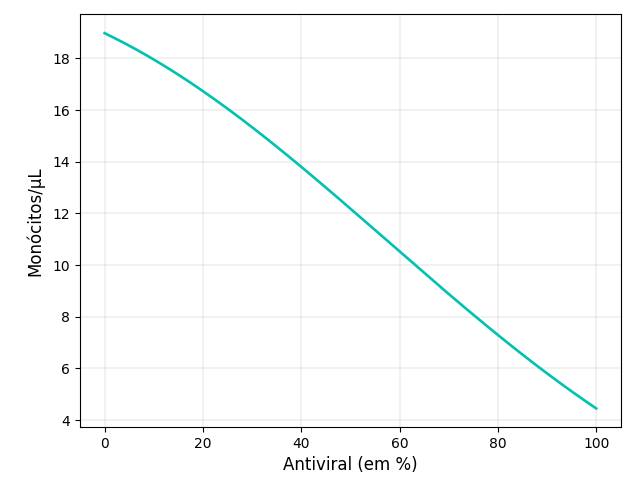
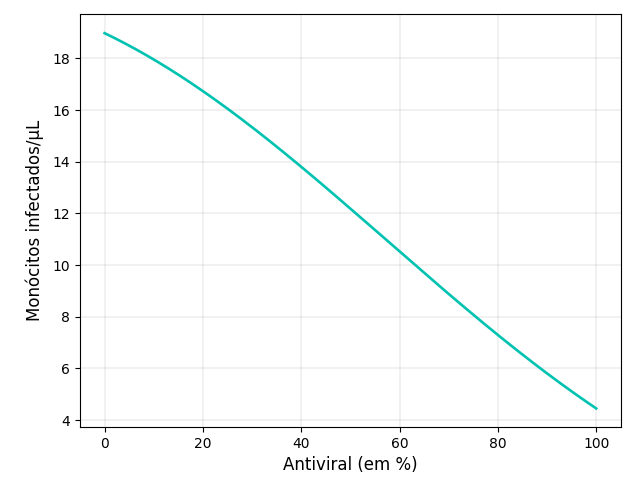
Add detailed comments to main.py for better code understanding

Changed region(s): [[0.0312, 0.25, 0.0625, 0.6875]]

diff --git a/main.py b/main.py
@@ -24,66 +24,68 @@ wks_d = 0.03 * wks_IFN                               #estímulo de produção de
 wks_beta1 = beta + wks_eta * nu / delta
 wks_c1 = wks_c + wks_d * wks_eta / delta
 
-remediocount = [i * 0.001 for i in range(1001)]
-
 h = 0.01                                             #parâmetro de precisão para método numérico de Runge-Kutta
 h1 = h/2                                             #parâmetro intermediário de precisão para método numérico de Runge-Kutta
 t = np.arange(0, 10+h, h)                            #vetor de tempo, até 10 dias
 time = len(t)
-pregnancy = len(remediocount)
 kutta = 4
 
-s = np.zeros((pregnancy,time,kutta))
-v = np.zeros((pregnancy,time,kutta))
-i = np.zeros((pregnancy,time,kutta))
-z = np.zeros((pregnancy,time,kutta))
+remediocount = [i * 0.001 for i in range(1001)]
+num_levels = len(remediocount)
 
-ds = np.zeros((pregnancy,time - 1,kutta))
-dv = np.zeros((pregnancy,time - 1,kutta))
-di = np.zeros((pregnancy,time - 1,kutta))
-dz = np.zeros((pregnancy,time - 1,kutta))
+s = np.zeros((num_levels,time,kutta))       # Array to store susceptible monocytes at each time step and Runge-Kutta stage
+v = np.zeros((num_levels,time,kutta))       # Array to store viral particles at each time step and Runge-Kutta stage
+i = np.zeros((num_levels,time,kutta))       # Array to store infected monocytes at each time step and Runge-Kutta stage
+z = np.zeros((num_levels,time,kutta))       # Array to store T lymphocytes at each time step and Runge-Kutta stage
 
-incremento_s = np.zeros((pregnancy,time))
-incremento_i = np.zeros((pregnancy,time))
-incremento_v = np.zeros((pregnancy,time))
-incremento_z = np.zeros((pregnancy,time))
+ds = np.zeros((num_levels,time - 1,kutta))  # Array to store rate of change for susceptible monocytes
+dv = np.zeros((num_levels,time - 1,kutta))  # Array to store rate of change for viral particles
+di = np.zeros((num_levels,time - 1,kutta))  # Array to store rate of change for infected monocytes
+dz = np.zeros((num_levels,time - 1,kutta))  # Array to store rate of change for T lymphocytes
+
+incremento_s = np.zeros((num_levels,time))  # Array to store increments for susceptible monocytes
+incremento_i = np.zeros((num_levels,time))  # Array to store increments for infected monocytes
+incremento_v = np.zeros((num_levels,time))  # Array to store increments for viral particles
+incremento_z = np.zeros((num_levels,time))  # Array to store increments for T lymphocytes
 
 ###############################
 
-s[:,0,0] = 250 
-i[:,0,0] = 10
-v[:,0,0] = 165
-z[:,0,0] = 2000 
+# Initial values for the populations
+s[:,0,0] = 250        # Susceptible monocytes per microliter
+i[:,0,0] = 10         # Infected monocytes per microliter
+v[:,0,0] = 165        # Viral particles per microliter
+z[:,0,0] = 2000       # T lymphocytes per microliter
 
-day = 3#1/1.33/2/3/4/5
+for w in range(num_levels):            # Loop through each remediocount value
+    for n in range(time - 1):          # Loop through each time step (except the last one)
+        for r in range(kutta):         # Loop through the Runge-Kutta stages
 
-for w in range(len(remediocount)):
-    for n in range(time - 1):
-        for r in range(kutta):
-            ds[w,n,r] = wks_mu[0] - alpha * s[w,n,r] - a[2] * s[w,n,r] * v[w,n,r]
-            di[w,n,r] = a[2] * s[w,n,r] * v[w,n,r] - beta * i[w,n,r] - nu * i[w,n,r] * z[w,n,r]
-            dv[w,n,r] = (1 - remediocount[w]) * k * i[w,n,r] - gamma * v[w,n,r] - a[2] * s[w,n,r] * v[w,n,r]
-            dz[w,n,r] = wks_eta[0] + wks_c[0] * i[w,n,r] + wks_d[0] * i[w,n,r] * z[w,n,r] - delta * z[w,n,r]
+            ds[w,n,r] = wks_mu[0] - alpha * s[w,n,r] - a[2] * s[w,n,r] * v[w,n,r]                             # Rate of change for susceptible monocytes
+            di[w,n,r] = a[2] * s[w,n,r] * v[w,n,r] - beta * i[w,n,r] - nu * i[w,n,r] * z[w,n,r]               # Rate of change for infected monocytes
+            dv[w,n,r] = (1 - remediocount[w]) * k * i[w,n,r] - gamma * v[w,n,r] - a[2] * s[w,n,r] * v[w,n,r]  # Rate of change for viral particles
+            dz[w,n,r] = wks_eta[0] + wks_c[0] * i[w,n,r] + wks_d[0] * i[w,n,r] * z[w,n,r] - delta * z[w,n,r]  # Rate of change for T lymphocytes
 
-            if r < (kutta - 1):
+            if r < (kutta - 1):  # Update intermediate stages for Runge-Kutta
                 s[w,n,r+1] = s[w,n,r] + h1 * ds[w,n,r]
                 i[w,n,r+1] = i[w,n,r] + h1 * di[w,n,r]
                 v[w,n,r+1] = v[w,n,r] + h1 * dv[w,n,r]
                 z[w,n,r+1] = z[w,n,r] + h1 * dz[w,n,r]
 
-        incremento_s[w,n] = (h/6) * (ds[w,n,0] + 2 * ds[w,n,1] + 2 * ds[w,n,2] + ds[w,n,3])
-        incremento_i[w,n] = (h/6) * (di[w,n,0] + 2 * di[w,n,1] + 2 * di[w,n,2] + di[w,n,3])
-        incremento_v[w,n] = (h/6) * (dv[w,n,0] + 2 * dv[w,n,1] + 2 * dv[w,n,2] + dv[w,n,3])
-        incremento_z[w,n] = (h/6) * (dz[w,n,0] + 2 * dz[w,n,1] + 2 * dz[w,n,2] + dz[w,n,3])
-
-        s[w,n+1,0] = s[w,n,0] + incremento_s[w,n]
+        # Increment for S, I, V e T
+        incremento_s[w,n] = (h/6) * (ds[w,n,0] + 2 * ds[w,n,1] + 2 * ds[w,n,2] + ds[w,n,3])  
+        incremento_i[w,n] = (h/6) * (di[w,n,0] + 2 * di[w,n,1] + 2 * di[w,n,2] + di[w,n,3])  
+        incremento_v[w,n] = (h/6) * (dv[w,n,0] + 2 * dv[w,n,1] + 2 * dv[w,n,2] + dv[w,n,3])  
+        incremento_z[w,n] = (h/6) * (dz[w,n,0] + 2 * dz[w,n,1] + 2 * dz[w,n,2] + dz[w,n,3])  
+        
+        # Update S, I, V e T for the next time step
+        s[w,n+1,0] = s[w,n,0] + incremento_s[w,n]  
         i[w,n+1,0] = i[w,n,0] + incremento_i[w,n]
         v[w,n+1,0] = v[w,n,0] + incremento_v[w,n]
         z[w,n+1,0] = z[w,n,0] + incremento_z[w,n]
-        
-remediocount = [i * 100 for i in remediocount]
 
-graph_2D_generator(t,remediocount,s[:, 128, 0],u'Monócitos/\u03bcL','gráfico-s')
-graph_2D_generator(t,remediocount,i[:, 128, 0],u'Monócitos/\u03bcL','gráfico-i')
-graph_2D_generator(t,remediocount,v[:, 128, 0],u'Partículas virais/\u03bcL','gráfico-v')
-graph_2D_generator(t,remediocount,z[:, 128, 0],u'Linfócitos T/\u03bcL','gráfico-z')
+remediocount = [i * 100 for i in remediocount]  # Scale the remediocount values by multiplying each by 100
+
+graph_2D_generator(t, remediocount, s[:, 128, 0], u'Monócitos susceptíveis/\u03bcL', 'gráfico-s')  # Generate a graph for susceptible monocytes (s) over remediocount
+graph_2D_generator(t, remediocount, i[:, 128, 0], u'Monócitos infectados/\u03bcL', 'gráfico-i')    # Generate a graph for infected monocytes (i) over remediocount
+graph_2D_generator(t, remediocount, v[:, 128, 0], u'Partículas virais/\u03bcL', 'gráfico-v')       # Generate a graph for viral particles (v) over remediocount
+graph_2D_generator(t, remediocount, z[:, 128, 0], u'Linfócitos T/\u03bcL', 'gráfico-z')            # Generate a graph for T lymphocytes (z) over remediocount
